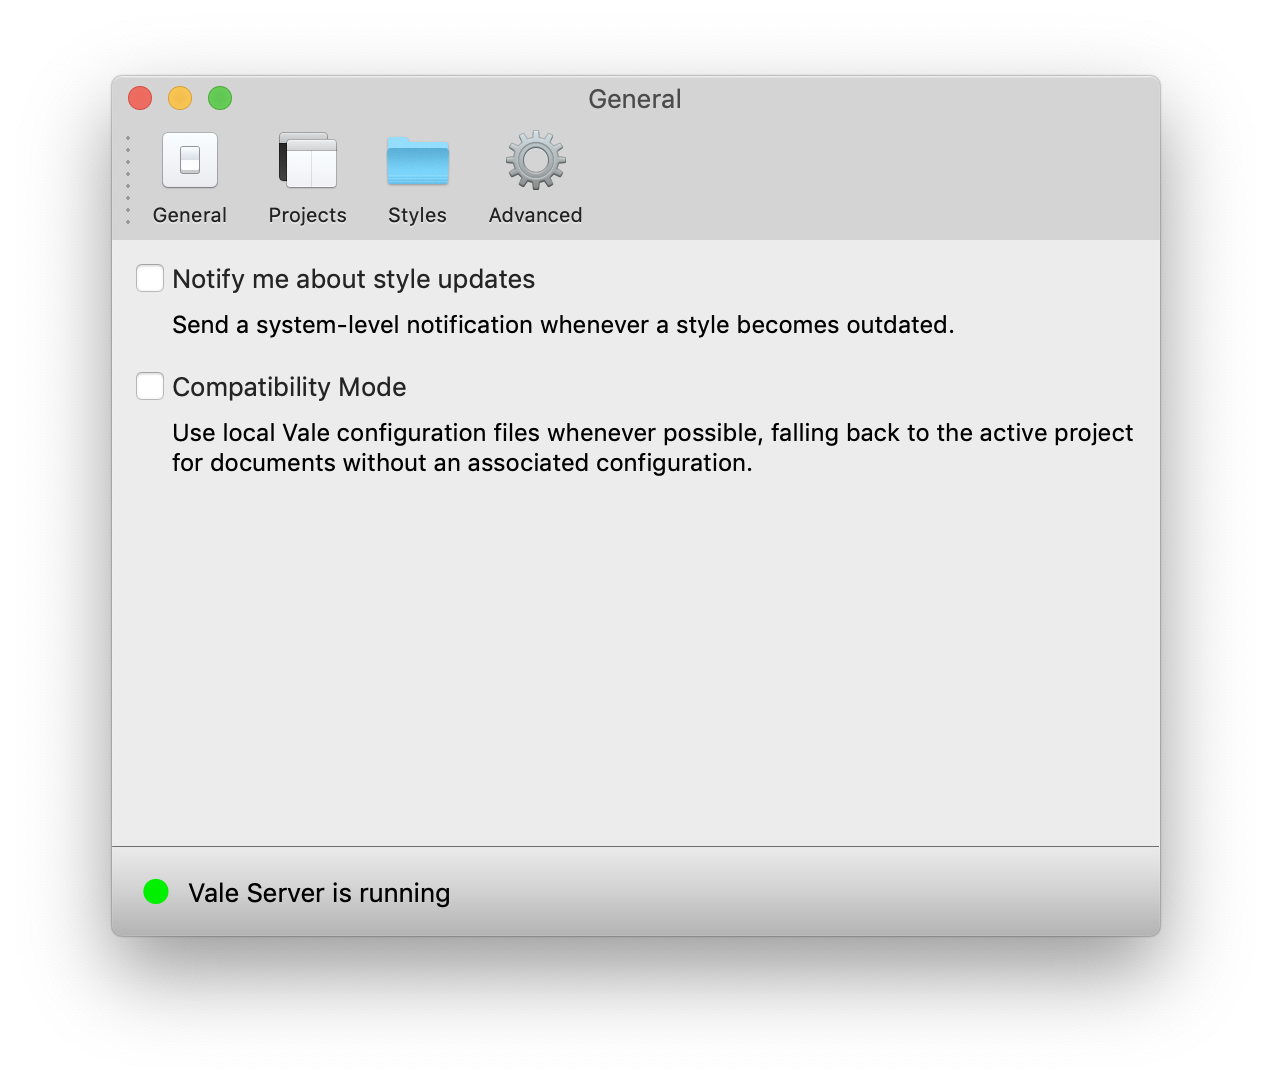
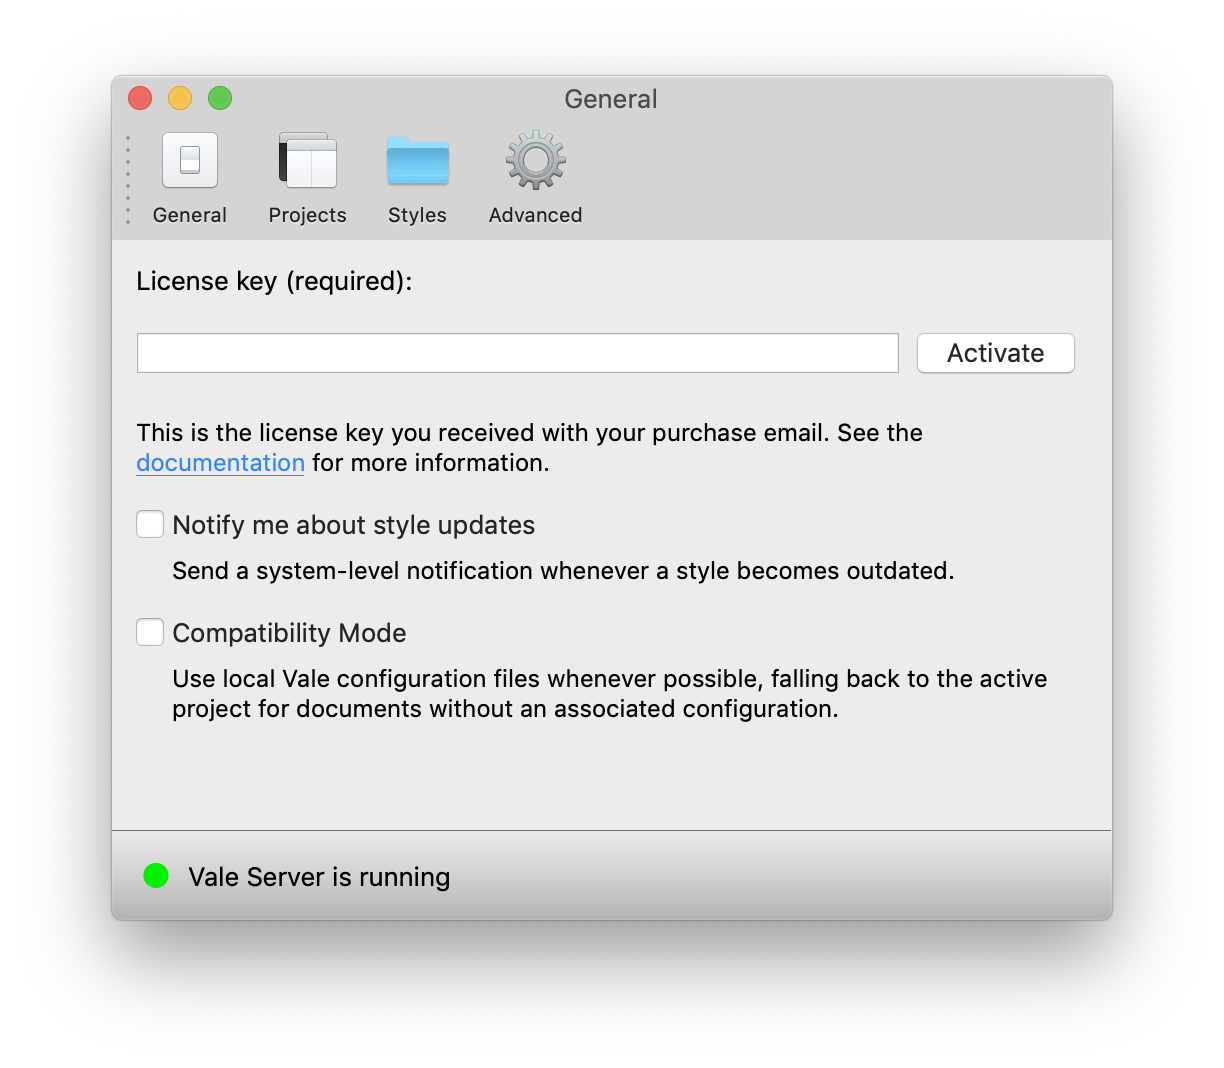
Re-introduce license keys

diff --git a/docs/gui.md b/docs/gui.md
@@ -18,6 +18,8 @@ And then click the **Preferences...** option from the context menu.
 
 ![Preferences (General)](assets/ui/macOS/prefs-general.png)
 
+- **License key**: The license key you received with your purchase. The number of times this license key can be activated is equal to quantity (the amount you chose at checkout) * 2 (the numbers of support platforms).
+
 - **Notify me about style updates**: If checked, you'll receive a desktop notification (on application start) if there are any available updates to your styles.
 
 - **Compatibility Mode**: If checked, supported clients (VS Code, Atom, and Sublime Text) will check documents according to their associated Vale configuration files whenever possible. You can further customize this functionality through local overrides in your active project:
